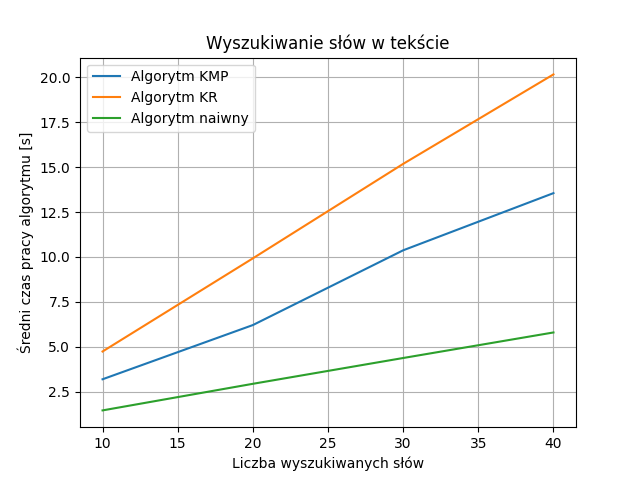
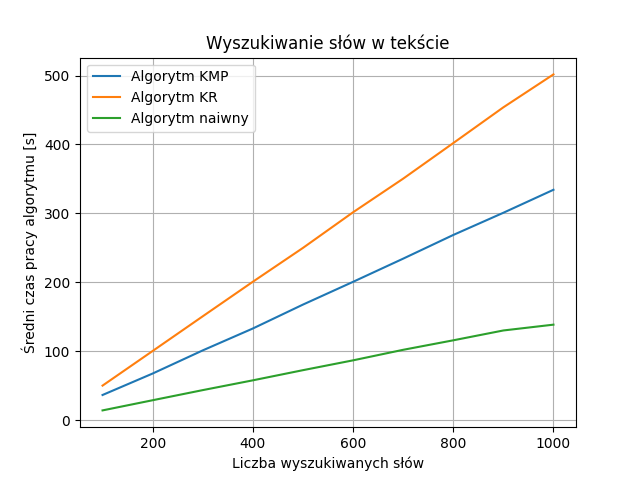
bigger measurements

diff --git a/pattern_search/measurements.py b/pattern_search/measurements.py
@@ -38,7 +38,7 @@ def measure_search(function, text):
     y = []
     list_of_words = re.sub(r'[^\w\s]', '',  text).split()  # removing punctuation and splitting words
 
-    for i in range(10, 50, 10):
+    for i in range(100, 1100, 100):
         print(i)
         x.append(i)
         words_to_search = list_of_words[:i]
